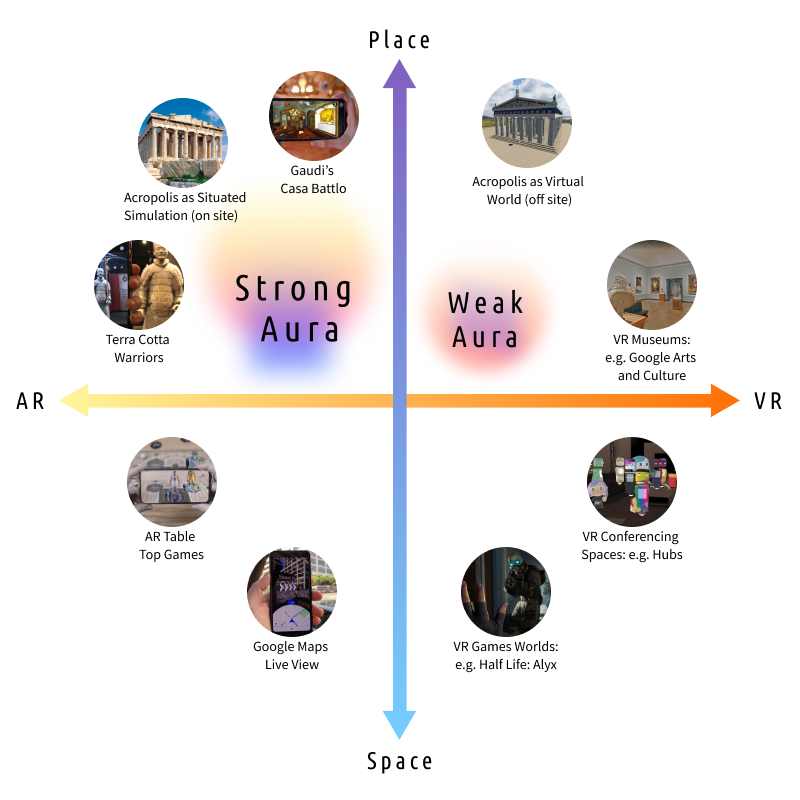
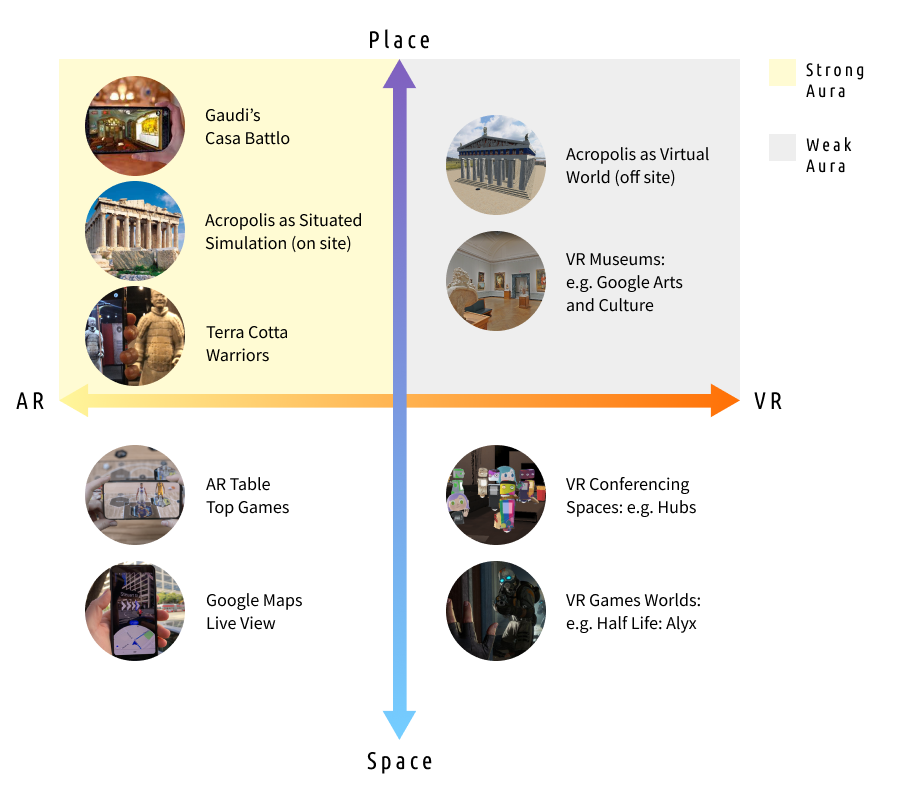
Fix image and css for Presence and Aura room

diff --git a/hubs.ts b/hubs.ts
@@ -38,6 +38,7 @@ import cybersickness from './src/apps/Room6/cybersickness/hubs'
 import cybersickness_pic from './src/apps/Room6/cybersickness_pic/hubs'
 import Empathy from './src/apps/Room6/Empathy/hubs'
 import Empathy_title from './src/apps/Room6/Empathy_title/hubs'
+import Mainmap_black from './src/apps/Room6/Mainmap_black/hubs'
 
 import Presence_map from './src/apps/Room6/Room6_map/hubs'
 import Presence_map2 from './src/apps/Room6/Room6_map_2/hubs'
@@ -107,7 +108,7 @@ export {
     Alyx, Pokemon, BeatSaber, WalkingDead, Minecraft, Apparizione, GamesBanner, ArtBanner, 
     
     // Presence and Aura
-    Milk, Nonnie, Treehugger, Presence, Empathy, Aura, Pit, PitInstruction, pitSign1,pitSign2, PitExperiment,ARandPresence, cybersickness, Presence_map, Presence_map2, Presence_map3, Milk_pic, Empathy_title, Nonnie_pic, Treehugger_pic, Pit_pic, AudioText, Parthenon, Terracotta, TerracottaPic, Treehuggerpic2, AudioPad,Label,Title, Gaudi, Gaudi_pic, cybersickness_pic,Milk_pic2, Pit_AR, Pit_AR_pic,Laciotat, PlaceandSpace,
+    Milk, Nonnie, Treehugger, Presence, Empathy, Aura, Pit, PitInstruction, pitSign1,pitSign2, PitExperiment,ARandPresence, cybersickness, Presence_map, Presence_map2, Presence_map3, Milk_pic, Empathy_title, Nonnie_pic, Treehugger_pic, Pit_pic, AudioText, Parthenon, Terracotta, TerracottaPic, Treehuggerpic2, AudioPad,Label,Title, Gaudi, Gaudi_pic, cybersickness_pic,Milk_pic2, Pit_AR, Pit_AR_pic,Laciotat, PlaceandSpace,Mainmap_black,
     
     //Onboarding and Rotunda
     Exit, Welcome, MitPress, HubsPlatform, HubsFeatures,rotundaMap, Sharing,MitText, HubsPlatform2, Overview, Back,pit_portal_title, ARVR_monolith, History_monolith,Graphics_monolith,Presence_monolith,Genres_monolith,Privacy_monolith,Future_monolith,

diff --git a/index.html b/index.html
@@ -54,7 +54,7 @@
 
     <p><a href="./src/apps/Room6/ARandPresence/index.html">AR and Presence</a></p>
     <p><a href="./src/apps/Room6/Aura/index.html">Aura</a></p>
-    <p><a href="./src/apps/Room6/Terracottta/index.html">Terracottta Description</a></p>
+    <p><a href="./src/apps/Room6/Terracotta/index.html">Terracottta Description</a></p>
     <p><a href="./src/apps/Room6/TerracottaPic/index.html">Terracottta Picture</a></p>
     <p><a href="./src/apps/Room6/Laciotat/index.html">Laciotat</a></p>
     <p><a href="./src/apps/Room6/PlaceandSpace/index.html">Place and Space Diagram</a></p>
@@ -65,7 +65,8 @@
     <p><a href="./src/apps/Room6/Gaudi/index.html">Gaudi information</a></p>
     <p><a href="./src/apps/Room6/Gaudi_pic/index.html">Gaudi picture</a></p>
     <p><a href="./src/apps/Room6/jp_test/index.html">jp iframe test</a></p>
-    
+    <p><a href="./src/apps/Room6/Mainmap_black/index.html">main map in black background</a></p>
+
     <h2>Pit room</h2>
     <p><a href="./src/apps/Room_Pit/Pit/index.html">Pit</a></p>
     <p><a href="./src/apps/Room_Pit/PitInstruction/index.html">Pit Instruction</a></p>

diff --git a/src/apps/Room6/Pit_AR/App.vue b/src/apps/Room6/Pit_AR/App.vue
@@ -1,15 +1,16 @@
 <template>
   <div> 
   <div id="room" class="darkwall">
-
+  <div class="spacer-side">
+  <div style="font-weight:bold">Presence in AR</div><br>
   	<div class="squareoff">
-<div style="font-weight:bold">Presence in AR</div><br>
+
 This experiment was inspired by the VR "pit" experiment described on the wall to your right. The subjects wore AR headsets instead of VR ones. They could see the room around them, but the pit itself was still virtual. Would the subjects would feel the same measurable anxiety in AR as in VR? The subjects filled out a questionnaire after the experience and indicated that they did have a feeling of presence, but in this case, unlike in the VR experiment, the physiological data (heart rate etc.) did not indicate a response.
 <br><br>
 Gandy, Maribeth, et al. 2010. “Experiences with an AR Evaluation Test Bed: Presence, Performance, and Physiological Measurement.” In 2010 IEEE International Symposium on Mixed and Augmented Reality, 127–36. Seoul, Korea (South): IEEE. https://doi.org/10.1109/ISMAR.2010.5643560.
 
  </div>
-
+</div>
   </div>
 
   </div> 

diff --git a/src/apps/Room6/Nonnie/App.vue b/src/apps/Room6/Nonnie/App.vue
@@ -1,10 +1,14 @@
 <template>
   <div> 
   <div id="room" class="darkwall">
+  <div class="spacer-side">
+  <br><br>
+  <img src="../../../assets/images/Room6/rtarrow.png" width="20" style="float: right; margin: 10px">
   <Title msg="The future of news?" />
   <br>
   <br>
 	<div class="squareoff">Nonnie de la Peña's <a href="https://embed.ted.com/talks/nonny_de_la_pena_the_future_of_news_virtual_reality" target="_blank">Ted Talk</a> called 'The future of news?''  introduces a new form of journalism where Virtual Reality technology is used to put audience inside the stories. In her work, she created VR stories about imprisonment in Guantanamo and hunger in Los Angeles to induce empathy in the audience.</div> 
+  </div>
   </div>
   </div> 
 </template>

diff --git a/src/apps/Room6/Presence/App.vue b/src/apps/Room6/Presence/App.vue
@@ -1,6 +1,7 @@
 <template>
   <div> 
   <div id="room" class="darkwall">
+    <div class="spacer-side">
   <div class="postertitle">Presence</div>
 	<div class="squareoff">Presence is a kind of absence, the absence of mediation. If the users can forget that the medium is there, then they feel presence. 
   <br>
@@ -20,7 +21,7 @@
   <br>
   <div class="squareoff" style="font-style:italic">"VR and AR cannot deceive their users into believing that they are having a non-mediated experience. But that is not necessary for a sense of presence."</div>
   </div>
-
+</div>
   </div> 
   
 </template>

diff --git a/src/apps/Room6/Terracotta/App.vue b/src/apps/Room6/Terracotta/App.vue
@@ -1,7 +1,7 @@
 <template>
   <div> 
   <div id="room" class="darkwall">
-  <div class="spacer">
+  <div class="spacer-side">
   <Title msg="Terracotta Warriors AR" />
   <br><br>
 	<div class="squareoff">"The Franklin Institute is using AR to enhance their Terracotta Warrior exhibition which were displayed in Philadelphia until March 2018. The museum’s app, powered by Wikitude technology, allows visitors to use their smartphone to scan items and visualize rich AR content to learn even more about the intriguing history behind the magnificent clay soldiers."</div>

diff --git a/src/apps/Room6/Mainmap_black/App.vue b/src/apps/Room6/Mainmap_black/App.vue
@@ -1,11 +1,8 @@
 <template>
   <div> 
   <div id="room" class="darkwall">
-  <div class="spacer-side">
-  	<div class="squareoff">The pit experiment is a virtual experiment often used to evaluate the sence of presence. The user is given a task to grab an object on plank and take it to the other side, crossing the pit. </div>
-
+    <img src="../../../assets/images/Onboarding/Map_black.jpg" class="full">
   </div>
-</div>
   </div> 
 </template>
 

diff --git a/src/assets/room.css b/src/assets/room.css
@@ -116,12 +116,8 @@
       height: auto;
     }
 
-    #scaled-frame {
-      zoom: .75;
-      -moz-transform: scale(0.75);
-      -moz-transform-origin: 0 0;
-      -o-transform: scale(0.75);
-      -o-transform-origin: 0 0;
-      -webkit-transform: scale(0.75);
-      -webkit-transform-origin: 0 0;
-    }
+    #room .spacer-side {
+      margin-left: auto;
+      margin-right: auto;
+      /* margin: 25px; */
+      }

diff --git a/src/apps/Room6/Gaudi/App.vue b/src/apps/Room6/Gaudi/App.vue
@@ -1,7 +1,7 @@
 <template>
   <div> 
   <div id="room" class="darkwall">
-  <div class="spacer">
+  <div class="spacer-side">
   <Title msg="Gaudí's Casa Batlló with AR" />
   <br><br>
 	<div class="squareoff">"Casa Batlló, one of the masterpieces of Antoni Gaudí, can be experienced with the mobile AR, which visualizes the reconstructed interior and the design inspirations through 3D animations."</div>

diff --git a/src/apps/Room6/Mainmap_black/index.html b/src/apps/Room6/Mainmap_black/index.html
@@ -4,7 +4,7 @@
     <meta charset="UTF-8" />
     <link rel="icon" href="../../favicon.ico" />
     <meta name="viewport" content="width=device-width, initial-scale=1.0" />
-    <title>Pit Experiment</title>
+    <title>Presence and Aura</title>
     <style>
         body {
             background-color: lightgray;

diff --git a/src/apps/Room6/Mainmap_black/hubs.ts b/src/apps/Room6/Mainmap_black/hubs.ts
@@ -4,7 +4,7 @@ import HubsAppProto from "../../HubsApp";
 class HubsApp extends HubsAppProto {
     constructor (width: number, height: number, params: any = {}) {
         super(App, width, height, params)
-   //     this.isInteractive = true;
+    //    this.isInteractive = true;
     }
 }
 

diff --git a/src/apps/Room6/cybersickness/App.vue b/src/apps/Room6/cybersickness/App.vue
@@ -1,7 +1,7 @@
 <template>
   <div> 
   <div id="room" class="darkwall">
-
+ <div class="spacer-side">
   <Title msg="Cybersickness and the negattion of presence" />
 	<div class="squareoff">
   <br><br>
@@ -10,6 +10,7 @@
   </div>
   </div>
   </div> 
+  </div>
 </template>
 
 <script setup>
